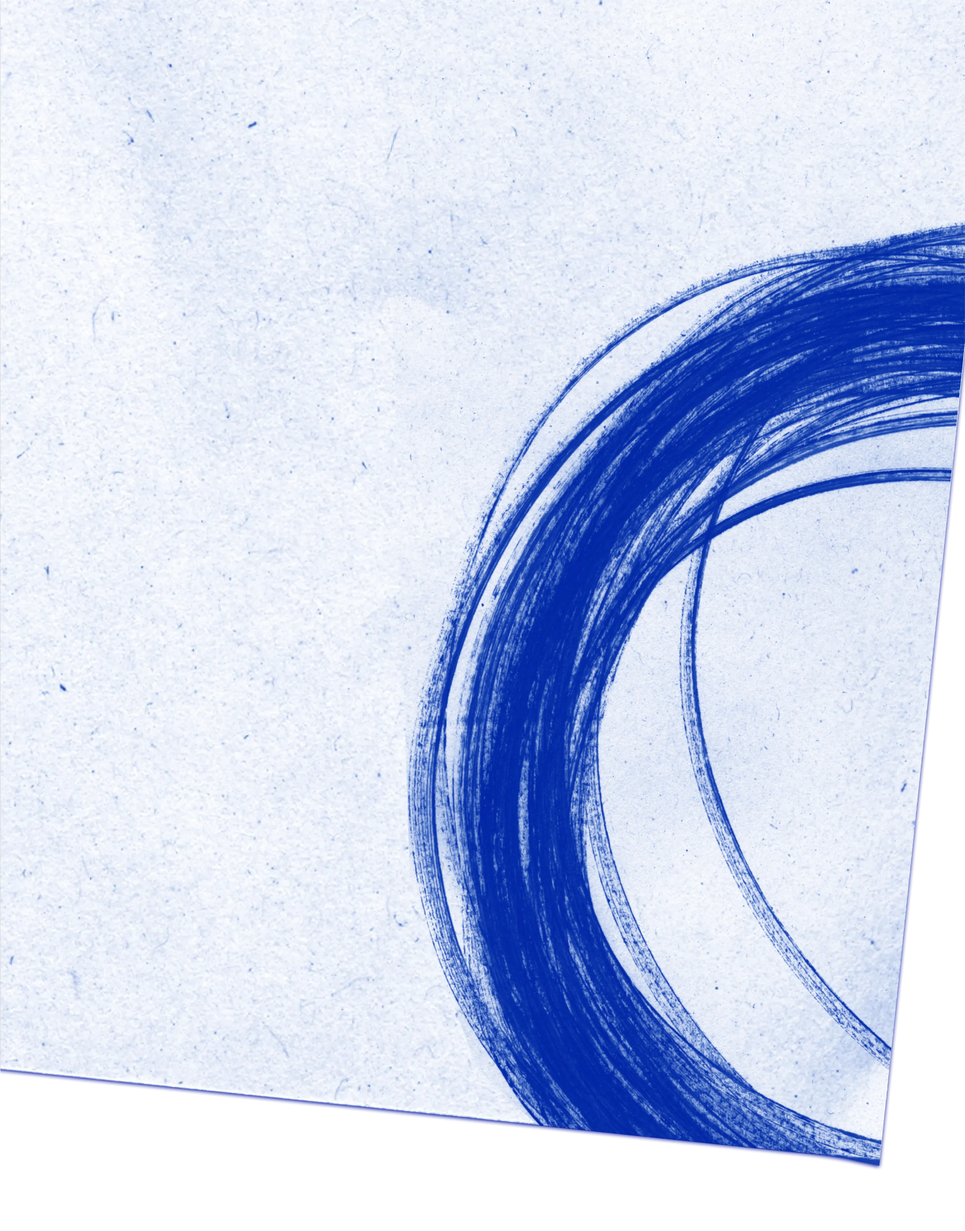
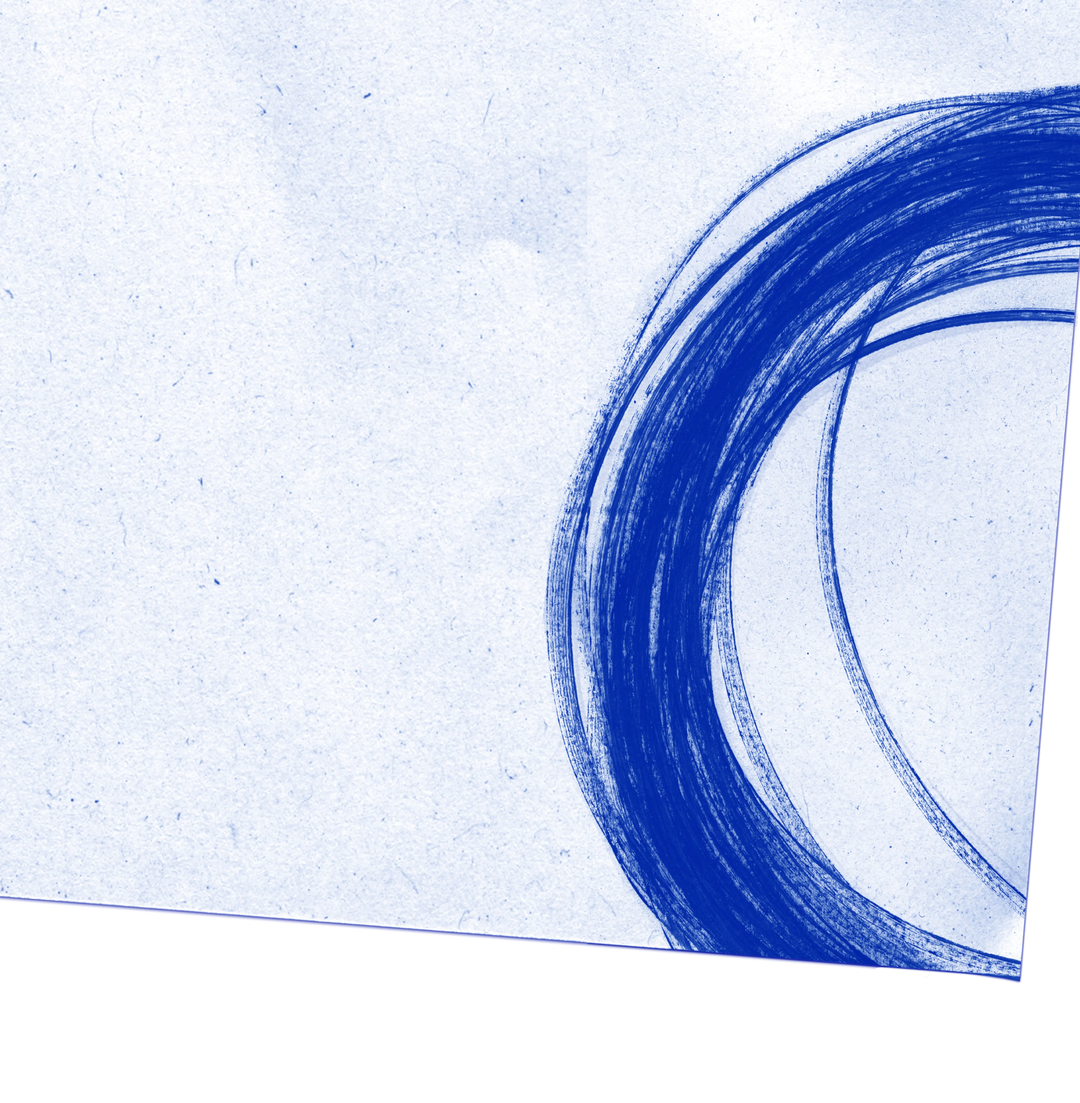
色々修正

diff --git a/src/app/layout.tsx b/src/app/layout.tsx
@@ -52,21 +52,25 @@ export default function RootLayout({
           <AdobeFontLoader />
           <div className="scroll-container">
             <div className="relative w-full h-screen">
-              <div className="sm:hidden">
+              <div className="md:hidden">
                 <MobileIcon />
+              </div>
+              <div className="hidden md:block">
+                <IconAndMenu />
+              </div>
+              <div className="sm:hidden">
                 <MobileBase />
               </div>
               <div className="hidden sm:block">
-                <IconAndMenu />
                 <DesktopBase />
               </div>
               <div className="isolate">
                 <Image
-                  src="/mobile/scan.webp"
+                  src="/mobile/iPadScan.webp"
                   alt="スキャン"
                   fill
                   className="
-                  sm:hidden 
+                  md:hidden 
                   absolute top-0 right-0 
                   h-screen w-full 
                   object-cover object-right
@@ -79,7 +83,7 @@ export default function RootLayout({
                   alt="スキャン"
                   fill
                   className="
-                  hidden sm:block 
+                  hidden md:block 
                   absolute top-0 right-0 
                   h-screen w-full 
                   object-cover object-right
@@ -91,7 +95,7 @@ export default function RootLayout({
                 {modal}
               </PageTransition>
             </div>
-            <div className="sm:hidden">
+            <div className="md:hidden">
               <MobileMenu />
             </div>
           </div>

diff --git a/src/app/page.tsx b/src/app/page.tsx
@@ -15,10 +15,22 @@ export default function Home() {
         mix-blend-darken z-10"
       />
       <Image
+        src="/desktop/iPadCircle.webp"
+        alt="円"
+        fill
+        className="
+        hidden sm:block md:hidden
+        absolute top-0 right-0 
+        h-screen w-full 
+        object-cover object-right
+        pointer-events-none"
+      />
+      <Image
         src="/desktop/circle.webp"
         alt="円"
         fill
-        className="hidden sm:block 
+        className="
+        hidden md:block 
         absolute top-0 right-0 
         h-screen w-full 
         object-cover object-right

diff --git a/src/app/_components/MobileMenu.tsx b/src/app/_components/MobileMenu.tsx
@@ -82,7 +82,7 @@ export default function MobileMenu() {
                         2/21 (Fri) - 2/24 (Mon)<br></br>
                         10:00 - 17:00<br></br>
                     </div>
-                    <span className="text-sm"
+                    <span className="text-md"
                         style={{
                             marginTop: 'clamp(1.25rem, 7vw, 2.5rem)',
                             fontSize: 'clamp(0.75rem, 0.5rem + 1vw, 1rem)'

diff --git a/src/app/_components/ConceptMovie.tsx b/src/app/_components/ConceptMovie.tsx
@@ -8,7 +8,7 @@ export default function ConceptMovie() {
             href="https://www.youtube.com/watch?v=joTQYufTBe0"
             target="_blank"
             rel="noopener noreferrer"
-            className="hidden sm:block fixed top-[-50px] right-0 cursor-pointer z-20"
+            className="hidden md:block fixed top-[-50px] right-0 cursor-pointer z-20"
         >
             <Image
                 src="/desktop/conceptMovie.webp"
